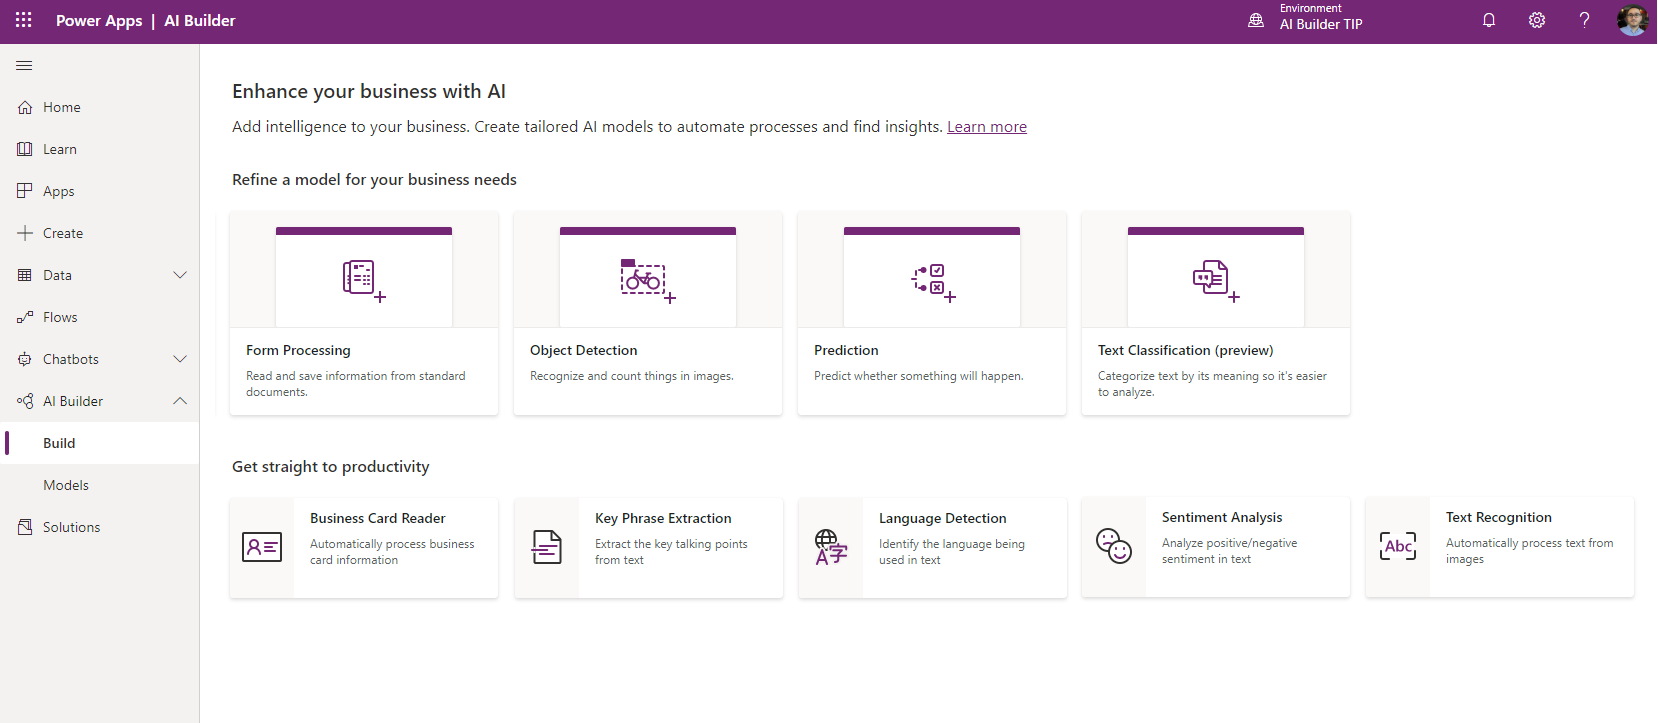
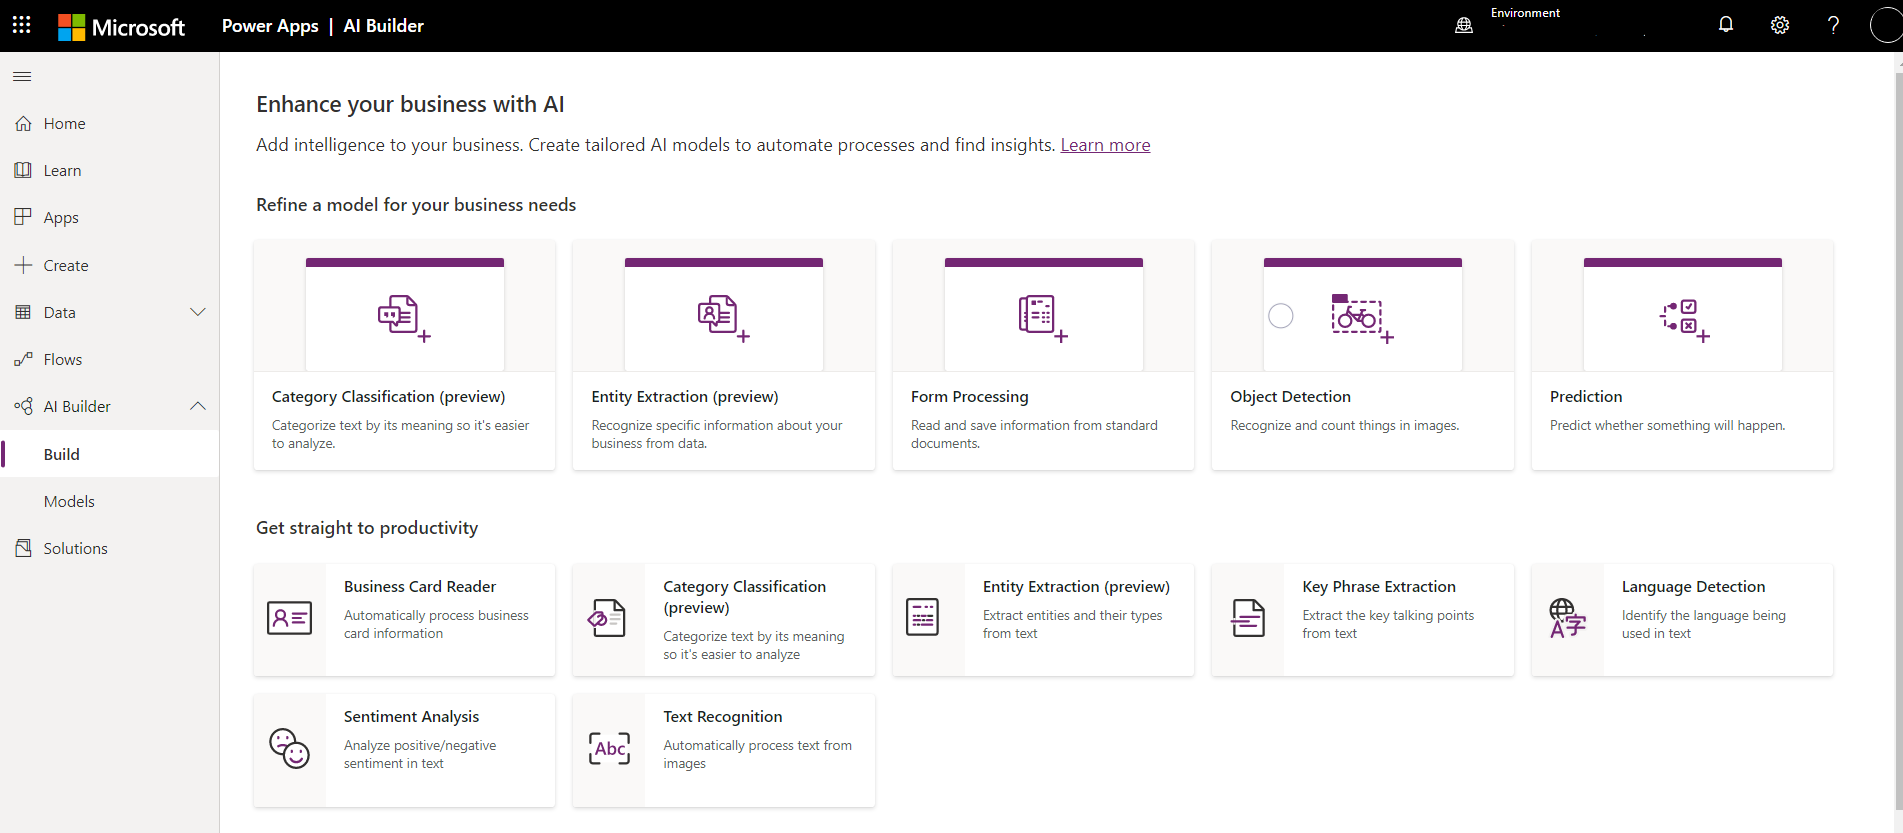
minor updates

diff --git a/ai-builder-docs/model-types.md b/ai-builder-docs/model-types.md
@@ -33,7 +33,7 @@ Custom AI models are models that you build by choosing a model type in AI Builde
 | Prediction   | Prediction  | [Overview of prediction model](prediction-overview.md)
 | Form processing  | Vision   | [Overview of form classification model](form-processing-model-overview.md)
 | Object detection  | Vision   | [Overview of object detection model](object-detection-overview.md)
-| Text classification  |Language   | [Overview of text classification model](text-classification-overview.md)
+| Category classification  |Language   | [Overview of category classification model](text-classification-overview.md)
 | Entity extraction  |Language   | [Overview of entity extraction model](entity-extraction-overview.md)
 
 ### Prebuilt AI models
